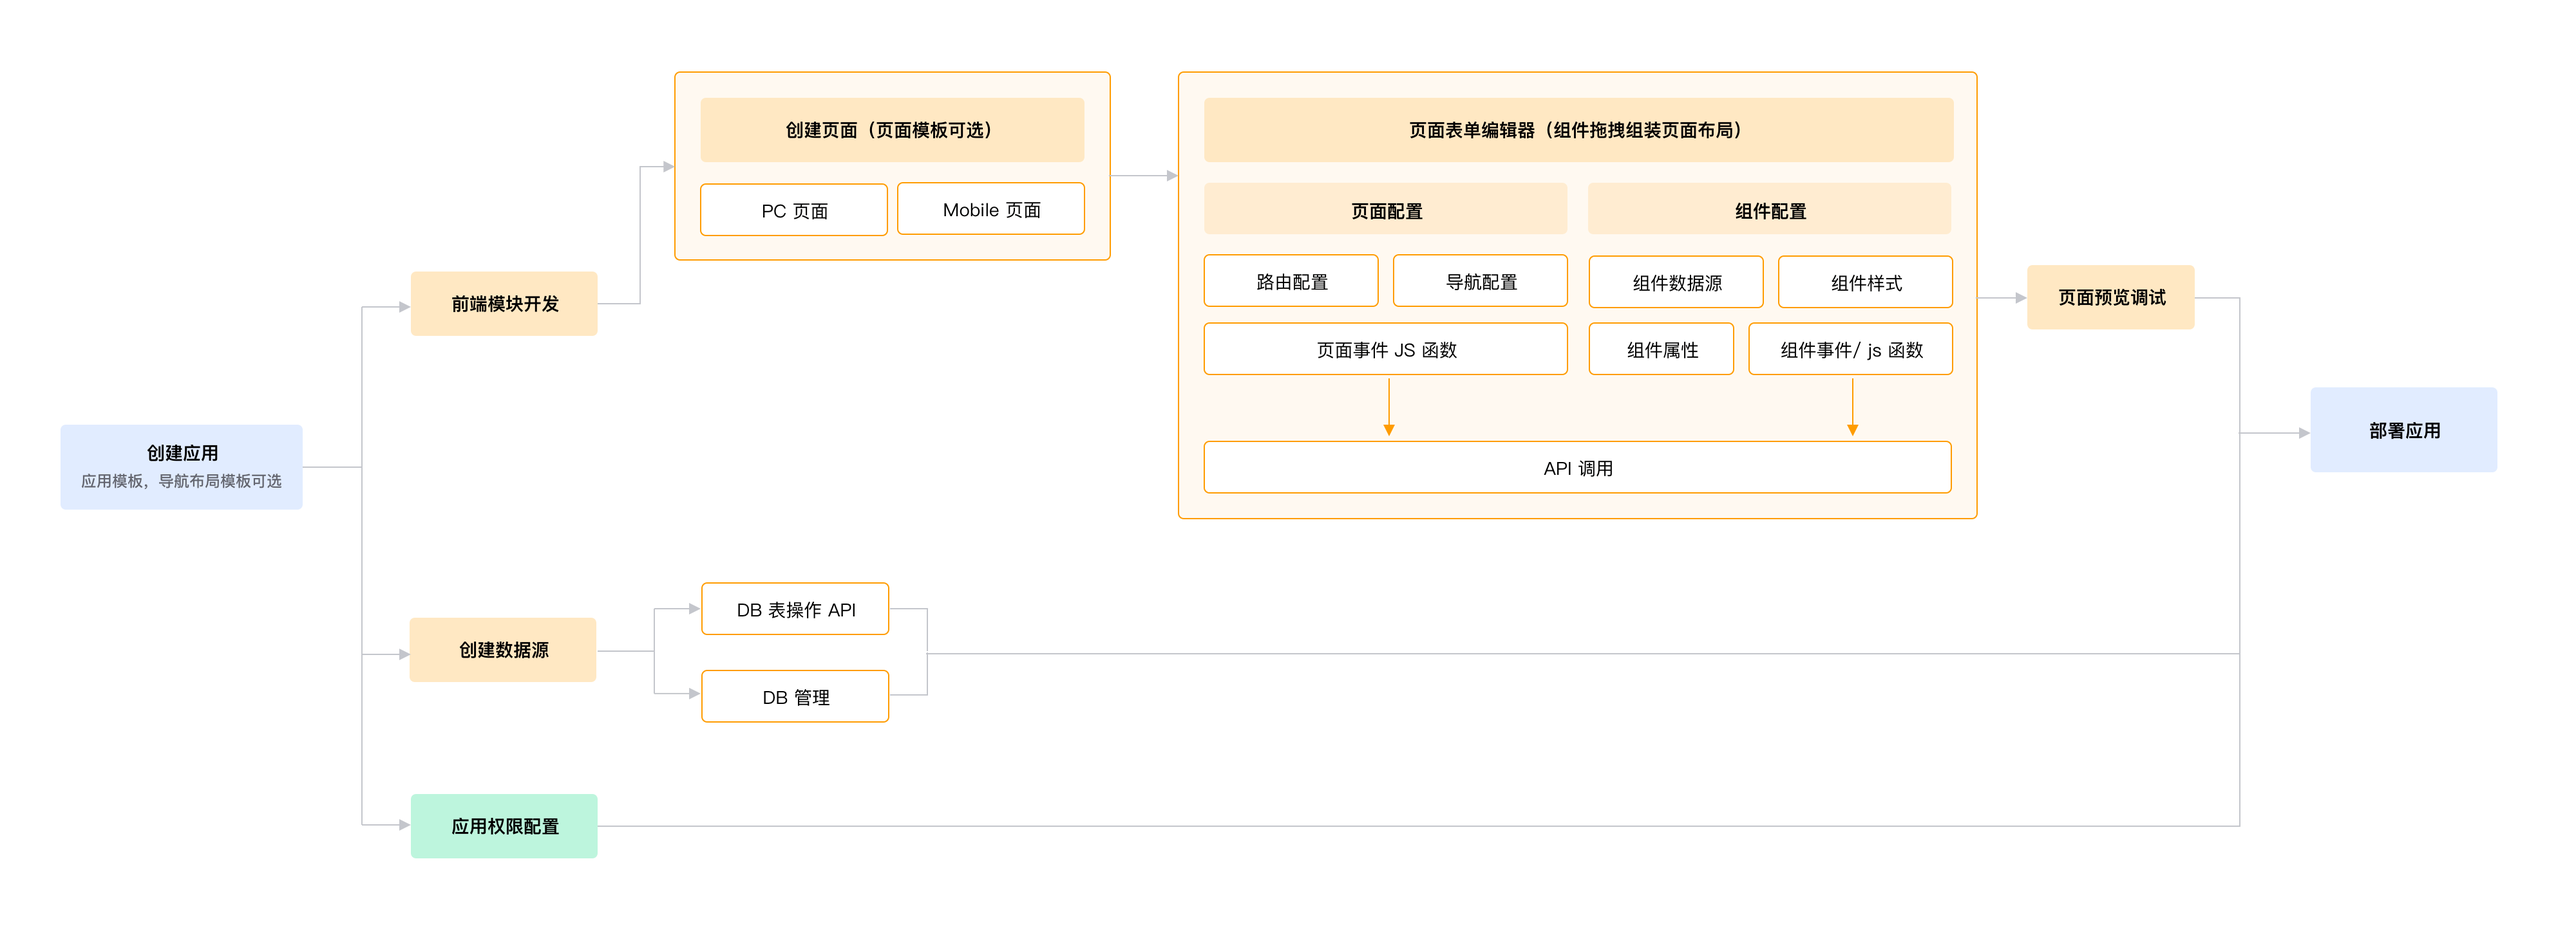
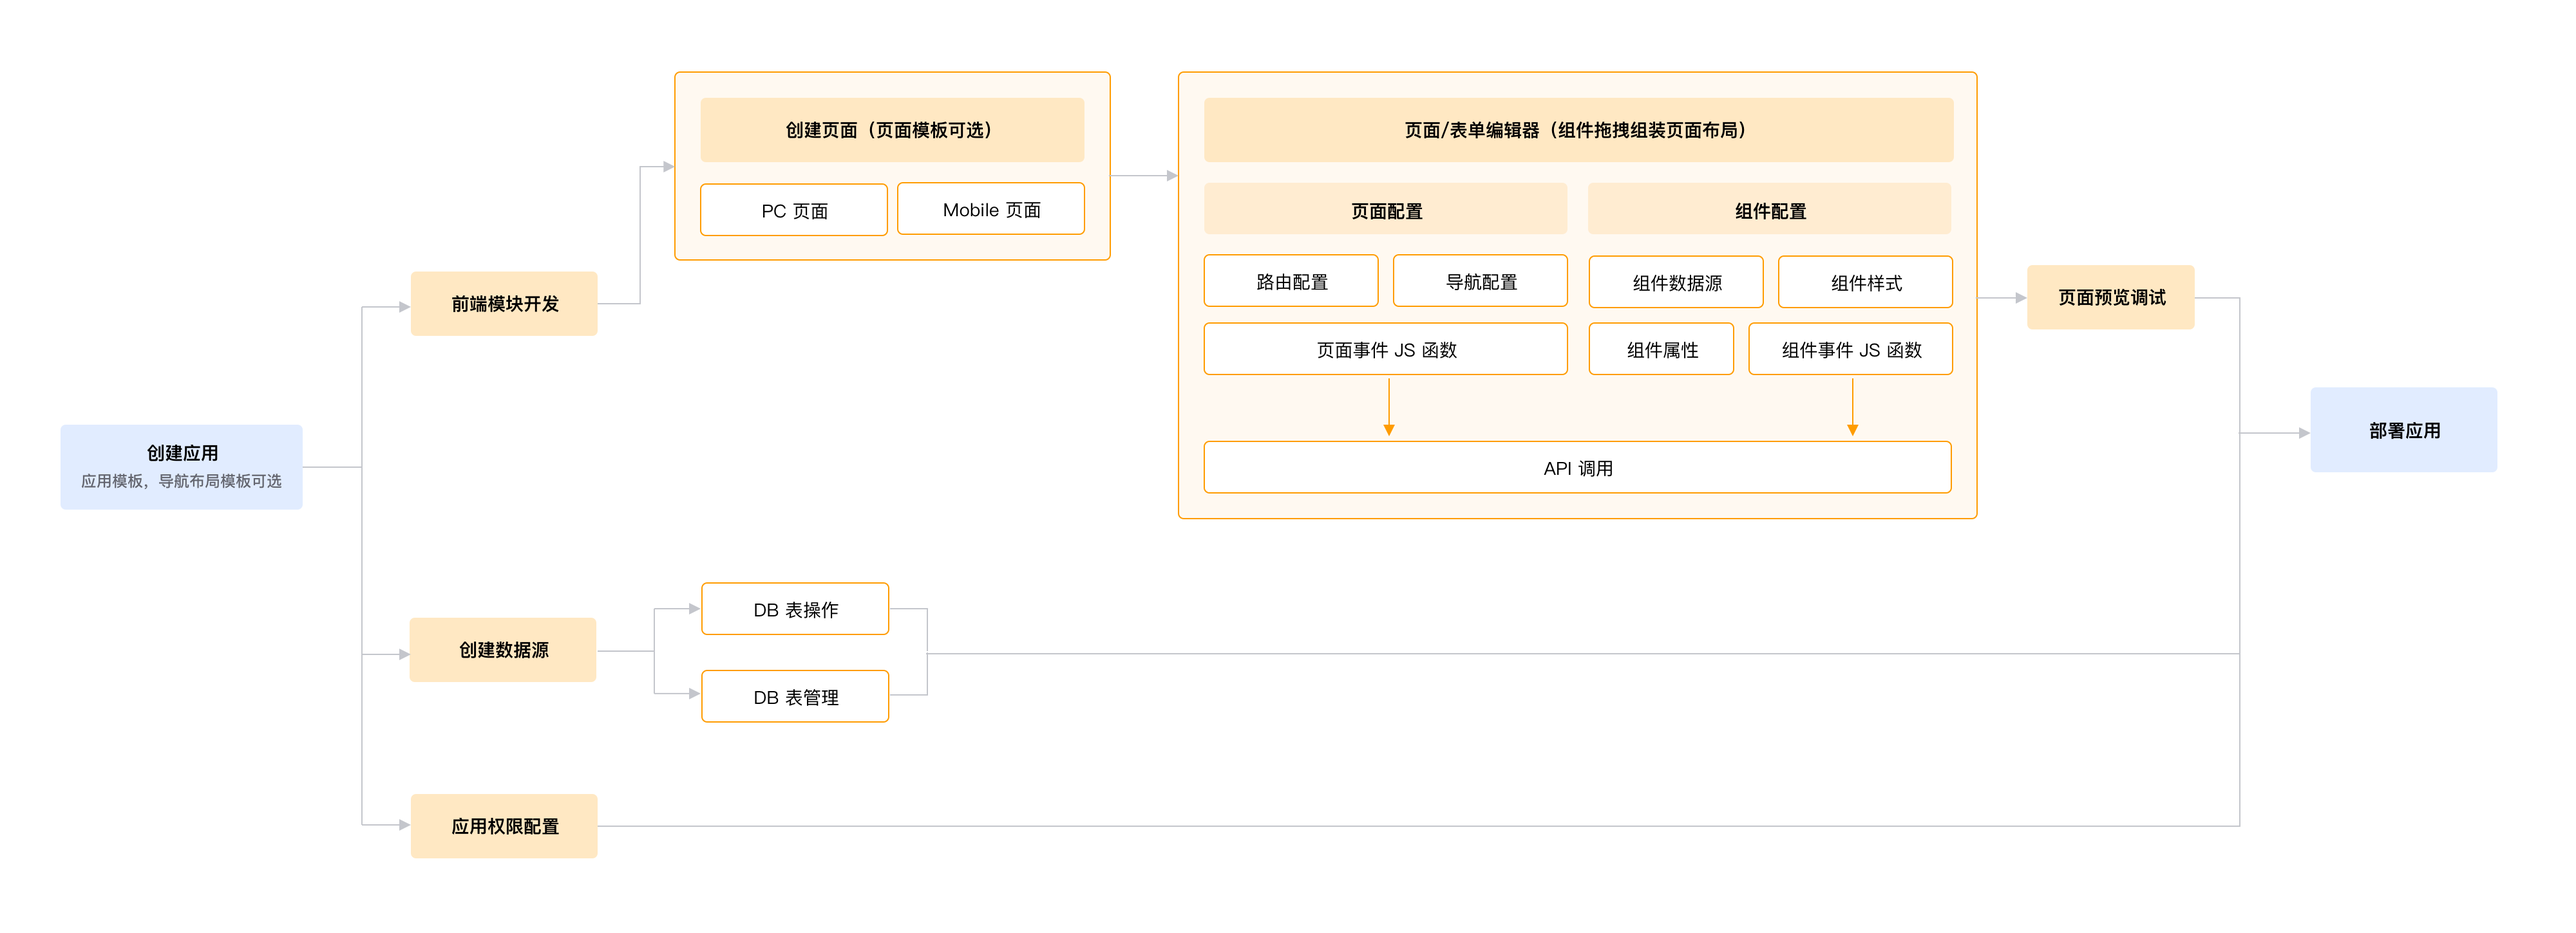
feat: 属性tooltips展示调整 &  文案图片替换 # Reviewed, transaction id: 8977

diff --git a/lib/client/src/element-materials/modifier/component/props/components/render-prop.vue b/lib/client/src/element-materials/modifier/component/props/components/render-prop.vue
@@ -28,7 +28,7 @@
                             }"
                         ></i>
                         <span
-                            :class="{ label: describe.tips }"
+                            :class="{ label: true }"
                             v-bk-tooltips="introTips">
                             {{ displayName }}
                         </span>
@@ -390,33 +390,27 @@
              * @returns { Object }
              */
             introTips () {
-                const tip = transformTipsWidth(this.dataTypeTips + window.i18n.t(this.describe.tips))
-                const commonOptions = {
-                    disabled: !tip,
-                    interactive: false,
+                return {
                     placements: ['left-start'],
-                    boundary: 'window',
-                    maxWidth: 300
+                    maxWidth: 300,
+                    content: this.tipsContent
                 }
-                return typeof tip === 'string'
-                    ? {
-                        ...commonOptions,
-                        content: tip
-                    }
-                    : Object.assign(tip, commonOptions)
             },
-            /**
-             * 属性描述加 类型xxx
-             */
-            dataTypeTips () {
+            tipsContent () {
                 const [editCom] = this.renderComponentList
-                let prefixField = ''
-                let prefix = ''
+                
+                let tips = window.i18n.t('属性英文名：{0}', [this.name])
+                let typeTips = ''
                 if (!Array.isArray(this.describe.type)) {
-                    prefixField = `${isEmpty(this.describe.tips) ? '类型为{0}' : '类型为{0}，'}`
-                    prefix = window.i18n.t(`${prefixField}`, [toPascal(editCom.valueType)])
+                    typeTips = window.i18n.t('类型：{0}', [toPascal(editCom.valueType)])
+                    tips += `<br>${typeTips}`
                 }
-                return prefix
+                let descTips = ''
+                if (this.describe.tips) {
+                    descTips = window.i18n.t('使用说明：{0}', [this.describe.tips])
+                    tips += `<br>${descTips}`
+                }
+                return tips
             },
             /**
              * @desc type 支持 remote 类型的不支持配置变量

diff --git a/lib/client/src/components/help-docs.vue b/lib/client/src/components/help-docs.vue
@@ -290,7 +290,7 @@
             // 模块展示
             const moduleList = reactive([
                 {
-                    moduleName: '流程图',
+                    moduleName: '应用开发流程',
                     iconClass: 'bk-drag-icon bk-drag-tuopu icon-pos',
                     frameSrc: frameImg
                 },
@@ -300,7 +300,7 @@
                     docsList: [
                         {
                             name: '页面开发',
-                            description: '通过可视化编排组件及配置组件属性样式等， 便捷的拖拽出所需的页面， 支持pc端页面跟移动端页面'
+                            description: '通过可视化编排组件及配置组件属性样式等， 便捷的拖拽出所需的页面， 支持PC端和移动端页面开发'
                         },
                         {
                             name: '路由管理',
